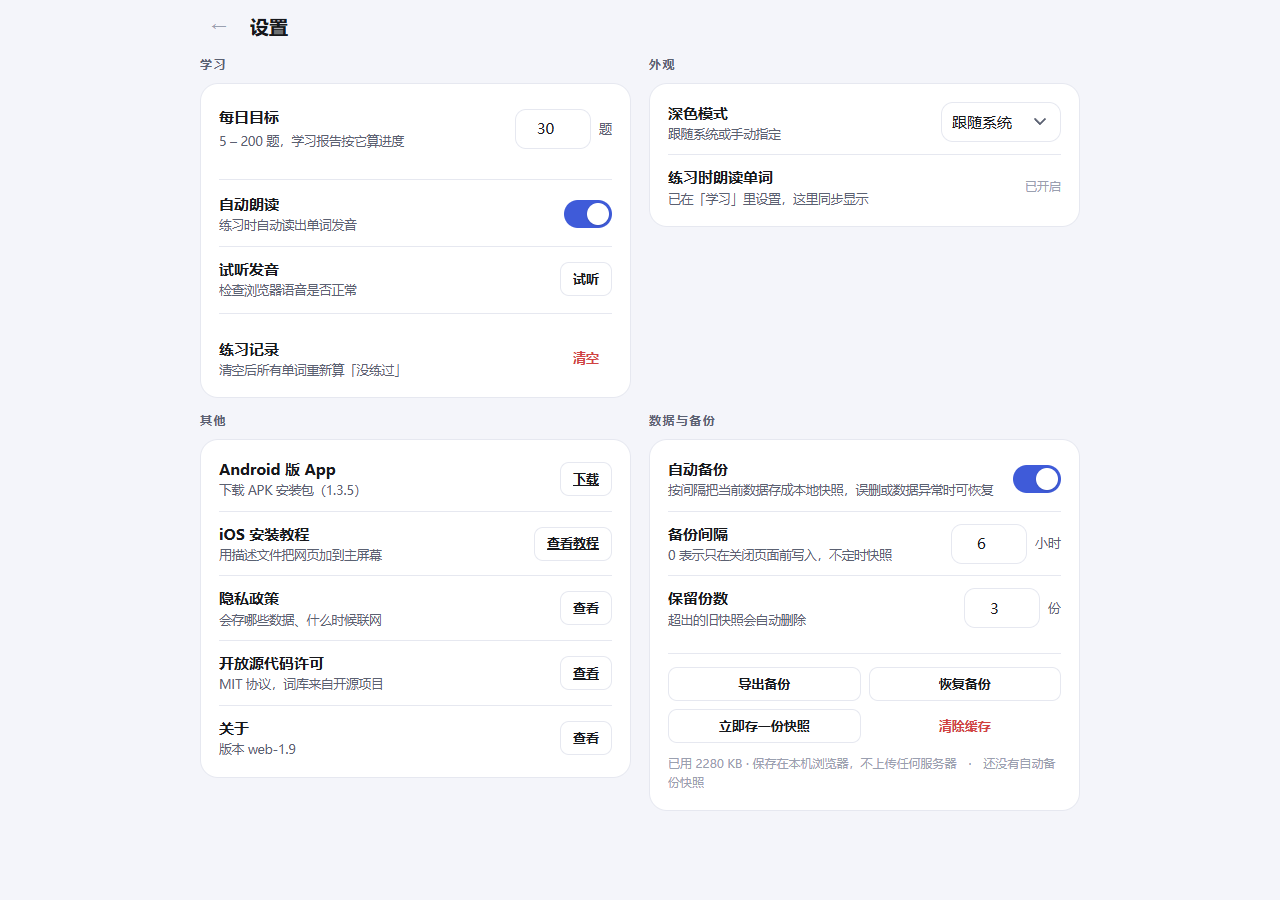
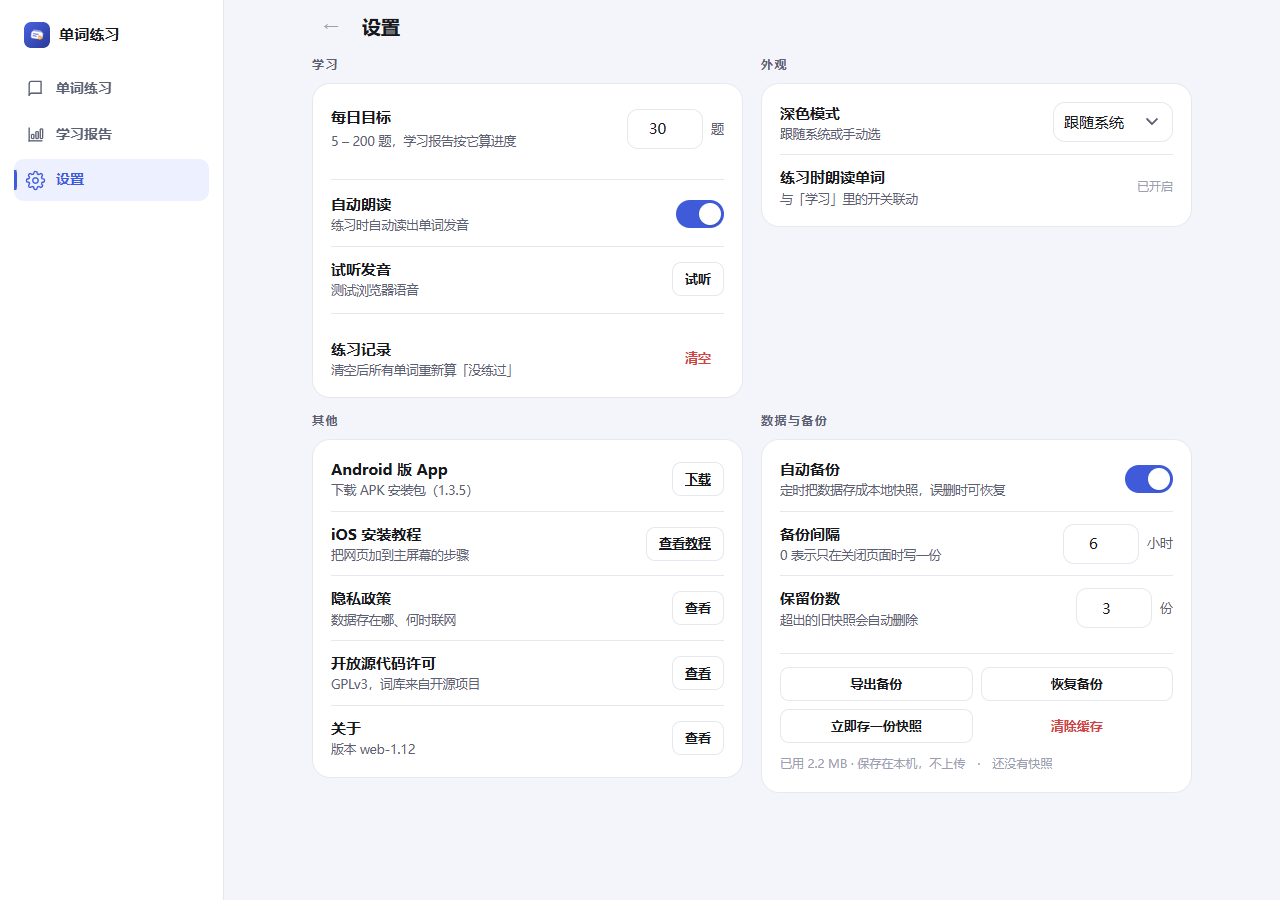
feat: 桌面端左侧导航栏；关于页去掉「同步」行
侧边导航
- 901px 以上显示固定左侧栏，224px 宽
- 三项：单词练习 / 学习报告 / 设置，各配线性图标
- 高亮规则：报告独立；设置页与隐私政策都算「设置」；其余都算「单词练习」
- 动效：进场依次滑入、悬停图标微放大 + 柔光、选中项左侧竖条从中间展开
- 练习页和结果页隐藏导航，保持沉浸（body padding 一并收回）
- 900px 以下不显示，手机端保持原样
- 尊重 prefers-reduced-motion

顶部栏
- 删掉主页右上角的「学习报告」「设置」两个按钮，只留标题

关于页
- 删掉「信息 = 同步 | 功能与 Android 版 1.3 基本一致」这一行

测试
- ui-smoke 增加导航项数量、链接、图标、点击跳转检查
- node --test 79 通过

版本 web-1.13，缓存 1.13.0

diff --git a/public/app.js b/public/app.js
@@ -117,6 +117,8 @@ async function route() {
   const [name] = hash.split('/');
   // 页面级样式钩子，每次路由先清掉，避免残留
   app.classList.remove('on-report');
+  app.classList.toggle('no-sidenav', name === 'practice' || name === 'result');
+  renderSidenav(name);
   try {
     if (name === 'practice') return renderPractice();
     if (name === 'result') return renderResult();
@@ -142,11 +144,54 @@ function topbar() {
   return `
     <header class="topbar">
       <h1>单词练习</h1>
-      <div class="topbar-actions">
-        <button class="btn text" data-action="report">学习报告</button>
-        <button class="btn text" data-action="settings">设置</button>
-      </div>
     </header>`;
+}
+
+/* ---------- 侧边导航（桌面端） ---------- */
+
+const NAV_ITEMS = [
+  { hash: '#/', label: '单词练习', icon: 'book' },
+  { hash: '#/report', label: '学习报告', icon: 'chart' },
+  { hash: '#/settings', label: '设置', icon: 'gear' },
+];
+
+const NAV_ICONS = {
+  book: '<path d="M4 5.5A2.5 2.5 0 0 1 6.5 3H19v15H6.5A2.5 2.5 0 0 0 4 20.5V5.5Z"/><path d="M4 20.5A2.5 2.5 0 0 1 6.5 18H19"/>',
+  chart: '<path d="M4 20V4"/><path d="M4 20h16"/><rect x="7" y="12" width="3" height="5" rx="1"/><rect x="12.5" y="8.5" width="3" height="8.5" rx="1"/><rect x="18" y="5" width="3" height="12" rx="1"/>',
+  gear: '<circle cx="12" cy="12" r="3.2"/><path d="M19.4 15a1.7 1.7 0 0 0 .34 1.87l.06.06a2 2 0 1 1-2.83 2.83l-.06-.06a1.7 1.7 0 0 0-1.87-.34 1.7 1.7 0 0 0-1.03 1.56V21a2 2 0 1 1-4 0v-.09A1.7 1.7 0 0 0 9 19.4a1.7 1.7 0 0 0-1.87.34l-.06.06a2 2 0 1 1-2.83-2.83l.06-.06A1.7 1.7 0 0 0 4.6 15a1.7 1.7 0 0 0-1.56-1.03H3a2 2 0 1 1 0-4h.09A1.7 1.7 0 0 0 4.6 9a1.7 1.7 0 0 0-.34-1.87l-.06-.06a2 2 0 1 1 2.83-2.83l.06.06A1.7 1.7 0 0 0 9 4.6a1.7 1.7 0 0 0 1.03-1.56V3a2 2 0 1 1 4 0v.09A1.7 1.7 0 0 0 15 4.6a1.7 1.7 0 0 0 1.87-.34l.06-.06a2 2 0 1 1 2.83 2.83l-.06.06A1.7 1.7 0 0 0 19.4 9v0a1.7 1.7 0 0 0 1.56 1.03H21a2 2 0 1 1 0 4h-.09A1.7 1.7 0 0 0 19.4 15Z"/>',
+};
+
+/** 当前路由属于哪一个导航项：报告、设置各自独立，其余都算单词练习。 */
+function navKeyFor(name) {
+  if (name === 'report') return '#/report';
+  if (name === 'settings' || name === 'privacy') return '#/settings';
+  return '#/';
+}
+
+/** 侧边导航每次渲染一次，只在路由变化时更新高亮。 */
+function renderSidenav(name) {
+  const nav = document.getElementById('sidenav');
+  if (!nav) return;
+  if (!nav.dataset.ready) {
+    nav.innerHTML = `
+      <div class="sidenav-brand">
+        <img class="sidenav-logo" src="./icon.png" alt="">
+        <span>单词练习</span>
+      </div>
+      <div class="sidenav-items">
+        ${NAV_ITEMS.map((item, i) => `
+          <a class="nav-item" href="${item.hash}" data-nav="${item.hash}" style="--i:${i}">
+            <svg class="nav-icon" viewBox="0 0 24 24" aria-hidden="true">${NAV_ICONS[item.icon]}</svg>
+            <span class="nav-label">${item.label}</span>
+            <span class="nav-glow"></span>
+          </a>`).join('')}
+      </div>`;
+    nav.dataset.ready = '1';
+  }
+  const active = navKeyFor(name);
+  nav.querySelectorAll('[data-nav]').forEach((el) => {
+    el.classList.toggle('active', el.dataset.nav === active);
+  });
 }
 
 /** iOS Safari 没有安装按钮，只能用一句提示教用户加到主屏幕。 */

diff --git a/public/style.css b/public/style.css
@@ -1289,3 +1289,115 @@ button, .mode, .opt, .word-row, .drop { -webkit-tap-highlight-color: transparent
   .import-tip-title { font-size: 13px; }
   .import-tip-format { font-size: 11.5px; }
 }
+
+/* ---------- 侧边导航（桌面端） ---------- */
+
+.sidenav { display: none; }
+
+@media (min-width: 901px) {
+  body { padding-left: 224px; }
+
+  .sidenav {
+    display: flex;
+    position: fixed;
+    z-index: 40;
+    top: 0;
+    left: 0;
+    bottom: 0;
+    width: 224px;
+    flex-direction: column;
+    padding: 22px 14px;
+    border-right: 1px solid var(--divider);
+    background: var(--surface);
+  }
+
+  .sidenav-brand {
+    display: flex;
+    align-items: center;
+    gap: 9px;
+    padding: 0 10px 20px;
+    color: var(--text);
+    font-size: 15px;
+    font-weight: 700;
+    letter-spacing: 0.2px;
+  }
+  .sidenav-logo { width: 26px; height: 26px; border-radius: 7px; }
+
+  .sidenav-items { display: flex; flex-direction: column; gap: 4px; }
+
+  .nav-item {
+    position: relative;
+    display: flex;
+    align-items: center;
+    gap: 11px;
+    padding: 10px 12px;
+    border-radius: 10px;
+    color: var(--muted);
+    font-size: 14px;
+    font-weight: 600;
+    text-decoration: none;
+    overflow: hidden;
+    transition: color 0.18s ease, background 0.18s ease, transform 0.18s ease;
+    animation: nav-in 0.34s cubic-bezier(0.22, 1, 0.36, 1) both;
+    animation-delay: calc(var(--i) * 55ms);
+  }
+
+  .nav-item:hover { background: var(--hover); color: var(--text); transform: translateX(2px); }
+  .nav-item:active { transform: translateX(1px) scale(0.99); }
+  .nav-item.active { color: var(--brand); background: var(--brand-soft); }
+
+  .nav-icon {
+    flex: none;
+    width: 19px;
+    height: 19px;
+    fill: none;
+    stroke: currentColor;
+    stroke-width: 1.7;
+    stroke-linecap: round;
+    stroke-linejoin: round;
+    transition: transform 0.22s cubic-bezier(0.34, 1.56, 0.64, 1);
+  }
+  .nav-item:hover .nav-icon { transform: scale(1.1); }
+  .nav-item.active .nav-icon { transform: scale(1.05); }
+
+  /* 选中的竖条从中间展开 */
+  .nav-item::before {
+    content: '';
+    position: absolute;
+    left: 0;
+    top: 50%;
+    width: 3px;
+    height: 0;
+    border-radius: 0 3px 3px 0;
+    background: var(--brand);
+    transform: translateY(-50%);
+    transition: height 0.24s cubic-bezier(0.34, 1.56, 0.64, 1);
+  }
+  .nav-item.active::before { height: 20px; }
+
+  /* 悬停时一道柔光扫过 */
+  .nav-glow {
+    position: absolute;
+    inset: 0;
+    border-radius: inherit;
+    background: radial-gradient(120px circle at var(--gx, 50%) 50%, rgba(63, 91, 217, 0.12), transparent 70%);
+    opacity: 0;
+    transition: opacity 0.25s ease;
+    pointer-events: none;
+  }
+  .nav-item:hover .nav-glow { opacity: 1; }
+
+  @keyframes nav-in {
+    from { opacity: 0; transform: translateX(-14px); }
+    to { opacity: 1; transform: translateX(0); }
+  }
+
+  /* 练习/结果页沉浸式，隐藏导航 */
+  .app.no-sidenav ~ .sidenav,
+  body:has(.app.no-sidenav) .sidenav { visibility: hidden; opacity: 0; }
+  body:has(.app.no-sidenav) { padding-left: 0; }
+}
+
+@media (prefers-reduced-motion: reduce) {
+  .nav-item, .nav-icon, .nav-glow, .nav-item::before { animation: none; transition: none; }
+}

diff --git a/scripts/ui-smoke.js b/scripts/ui-smoke.js
@@ -175,9 +175,16 @@ async function main() {
       await page.waitForSelector('.hero');
     }
 
+    /* ---------- 侧边导航 ---------- */
+    const navItems = await page.$$eval('[data-nav]', (els) => els.map((e) => e.getAttribute('href')));
+    check(navItems.length === 3, `侧边导航应有 3 项，实际 ${JSON.stringify(navItems)}`);
+    check(navItems.includes('#/report') && navItems.includes('#/settings'), '导航应含学习报告与设置');
+    check((await page.$$('.nav-icon')).length === 3, '导航项应有图标');
+
     /* ---------- 学习报告 ---------- */
-    await page.evaluate(() => { location.hash = '#/report'; });
+    await page.click('[data-nav="#/report"]');
     await page.waitForSelector('.stat-grid');
+    check((await page.evaluate(() => location.hash)) === '#/report', '点导航应进入学习报告');
     const report = await page.textContent('.center-col');
     check(report.includes('掌握度'), '报告页应有掌握度');
     check(report.includes('连续打卡'), '报告页应有打卡统计');
@@ -239,7 +246,7 @@ async function main() {
     await page.click('[data-action="about"]');
     await page.waitForSelector('.about-card');
     const about = await page.textContent('.about-card');
-    check(about.includes('版本 web-1.12'), '关于页应显示版本');
+    check(about.includes('版本 web-1.13'), '关于页应显示版本');
     check(about.includes('zlt mteacase'), '关于页应显示开发者');
     check(!about.includes('开放源代码许可'), '开源许可应已移出关于弹窗');
     await page.keyboard.press('Escape');
@@ -305,6 +312,7 @@ main().catch((err) => {
   console.error('✖ 冒烟失败：', err.message);
   process.exit(1);
 });
+
 
 
 

diff --git a/public/js/repo.js b/public/js/repo.js
@@ -9,7 +9,7 @@ import { parseAbout } from './about.js';
 import { createStorage, getLocalStorage, memoryStorage, exportBackup, parseBackup, clearCache } from './persist.js';
 import { autoBackupEnabled, backupIntervalHours, backupKeepCount } from './settings.js';
 
-export const VERSION = 'web-1.12';
+export const VERSION = 'web-1.13';
 export { MODES, isCorrect };
 
 let autoTimer = 0;
@@ -435,6 +435,7 @@ export function clearAutoBackups() {
 export async function clearOfflineCache() {
   return clearCache();
 }
+
 
 
 

diff --git a/public/index.html b/public/index.html
@@ -32,6 +32,7 @@
   <meta name="apple-mobile-web-app-title" content="单词练习">
 </head>
 <body>
+  <nav id="sidenav" class="sidenav" aria-label="主导航"></nav>
   <div id="app" class="app"><div class="boot">正在载入…</div></div>
   <div id="toast" class="toast" hidden></div>
   <noscript><div class="app"><div class="card">这个页面需要开启 JavaScript 才能使用。</div></div></noscript>

diff --git a/public/sw.js b/public/sw.js
@@ -2,7 +2,7 @@
  * 离线缓存：装到桌面后断网也能用。
  * 改了任何静态文件，把 VERSION 加一，用户下次打开就会拿到新版本。
  */
-const VERSION = '1.12.0';
+const VERSION = '1.13.0';
 const CACHE = `worddrill-${VERSION}`;
 
 const ASSETS = [
@@ -101,6 +101,7 @@ self.addEventListener('fetch', (event) => {
     }),
   );
 });
+
 
 
 
